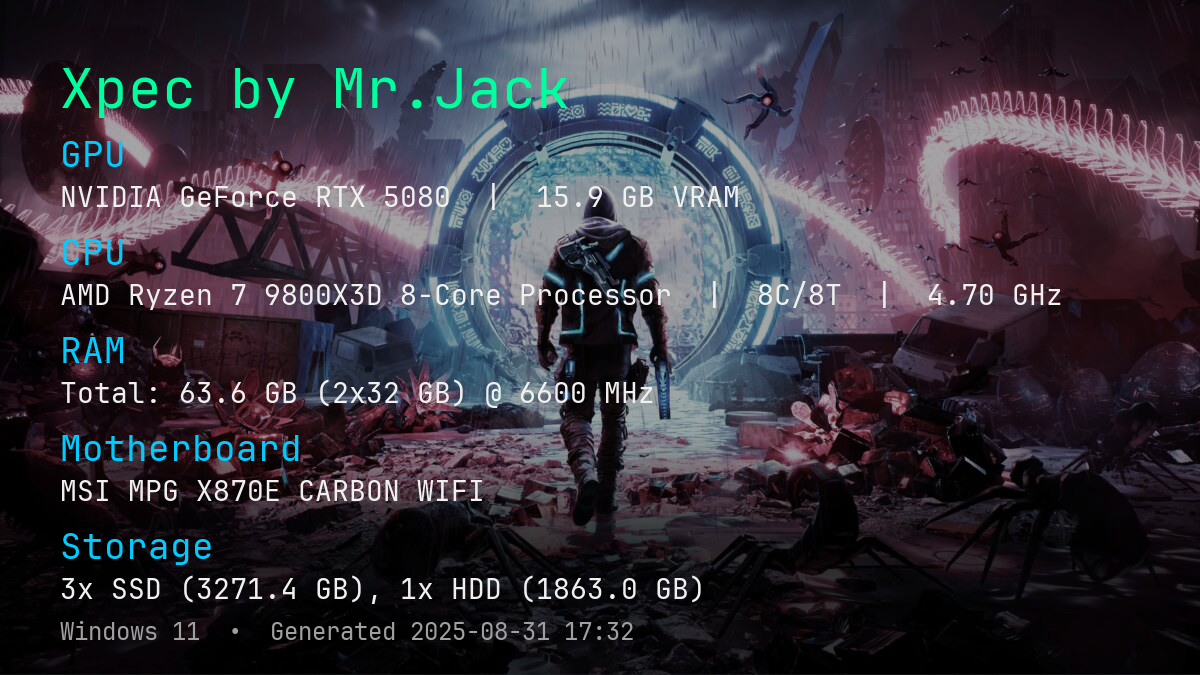
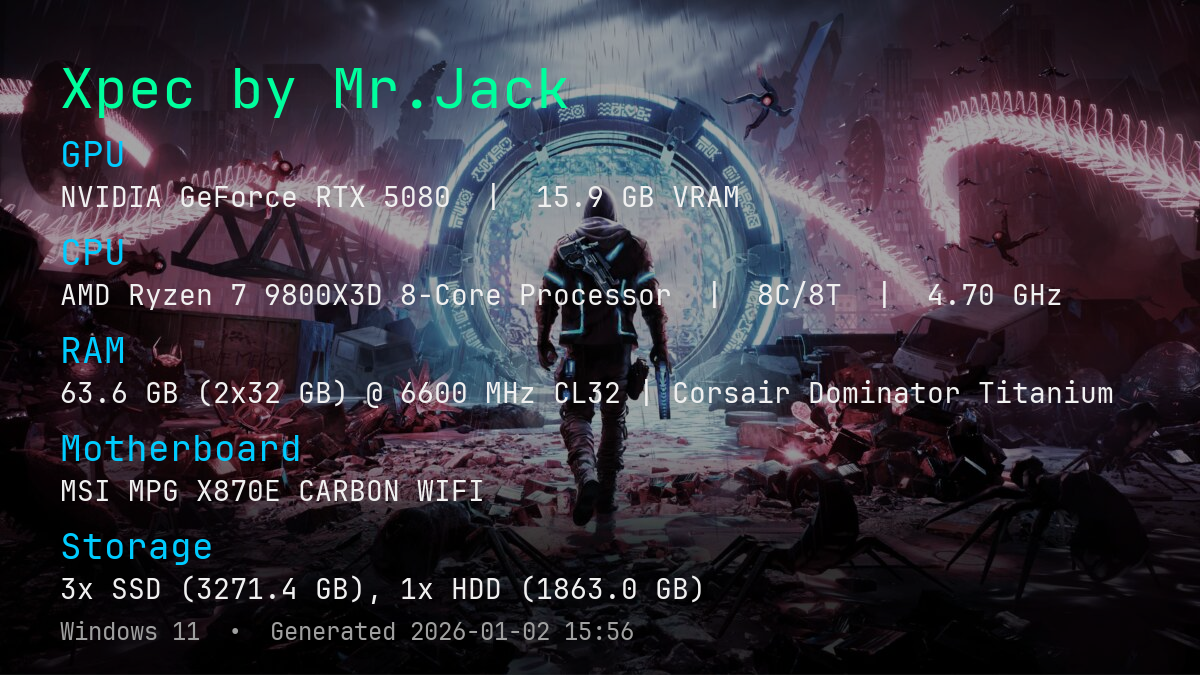
ram

Changed region(s): [[0.0308, 0.56, 0.925, 0.6222], [0.4933, 0.9022, 0.5242, 0.9333], [0.4317, 0.9022, 0.4625, 0.9333]]

diff --git a/xpec.py b/xpec.py
@@ -241,6 +241,85 @@ def get_ram_info():
         except Exception:
             pass
 
+    # Post-process for simpler vendor/model names and CAS Latency
+    for m in ram_info["Modules"]:
+        part = m.get("Part Number", "N/A").strip()
+        manu = m.get("Manufacturer", "N/A").strip()
+        
+        # Heuristics for Manufacturer & Model Family from Part Number
+        inferred_manu = None
+        inferred_model = None
+        cl_val = None
+
+        if part and part != "N/A":
+            u_part = part.upper()
+            
+            # --- Manufacturer / Model Heuristics ---
+            # CORSAIR
+            if u_part.startswith("CMP"):
+                inferred_manu = "Corsair"
+                inferred_model = "Dominator Titanium"
+            elif u_part.startswith("CMT"):
+                inferred_manu = "Corsair"
+                inferred_model = "Dominator Platinum"
+            elif u_part.startswith("CMK"):
+                inferred_manu = "Corsair"
+                inferred_model = "Vengeance LPX"
+            elif u_part.startswith("CMH"):
+                inferred_manu = "Corsair"
+                inferred_model = "Vengeance RGB"
+            elif u_part.startswith("CMW"):
+                inferred_manu = "Corsair"
+                inferred_model = "Vengeance RGB Pro"
+            elif u_part.startswith("CM"):
+                inferred_manu = "Corsair"
+                
+            # G.SKILL
+            elif u_part.startswith("F5") or u_part.startswith("F4"):
+                inferred_manu = "G.Skill"
+                if "TZ" in u_part: inferred_model = "Trident Z"
+                elif "RJ" in u_part: inferred_model = "Ripjaws"
+                
+            # KINGSTON
+            elif u_part.startswith("KF"):
+                inferred_manu = "Kingston"
+                inferred_model = "Fury"
+            elif u_part.startswith("HX"):
+                inferred_manu = "HyperX"
+                
+            # CRUCIAL
+            elif u_part.startswith("CT") or "CRUCIAL" in u_part:
+                inferred_manu = "Crucial"
+                
+            # --- CAS Latency Heuristics ---
+            # Look for C30, CL30, C32, etc. usually near end or after hyphen
+            # Regex: C followed by 2 digits, ensure it's not part of a larger number like C12345
+            # common patterns: ...C30..., ...CL30...
+            match_cl = re.search(r"(?:C|CL)(\d{2})(?:[^0-9]|$)", u_part)
+            if not match_cl:
+                # Fallback: check if the string STARTS with C/CL + digits (rare but safe)
+                match_cl = re.match(r"^(?:C|CL)(\d{2})(?:[^0-9]|$)", u_part)
+            
+            if match_cl:
+                try:
+                    val = int(match_cl.group(1))
+                    if 10 <= val <= 50: # Sane DDR4/DDR5 CL range
+                        cl_val = f"CL{val}"
+                except:
+                    pass
+
+        # Apply inferences if original manu is weak
+        if manu in {"N/A", "Unknown", "0000", "Undefined"} and inferred_manu:
+            m["Manufacturer"] = inferred_manu
+        
+        # Store extras
+        if inferred_manu:
+            m["_InferredManu"] = inferred_manu
+        if inferred_model:
+            m["_InferredModel"] = inferred_model
+        if cl_val:
+            m["_CL"] = cl_val
+
     return ram_info
 
 def get_gpu_info():
@@ -807,14 +886,44 @@ def _summarize_ram(ram_info: dict) -> str:
     if count and sizes and all(x > 0 for x in sizes):
         if len(set(sizes)) == 1:
             per_size = sizes[0]
-    parts = [f"Total: {total}"]
+    parts = [f"{total}"]
     if count:
         if per_size:
             parts.append(f"({count}x{per_size:.0f} GB)")
         else:
             parts.append(f"({count} modules)")
+    
+    # 3. Add Speed and Latency
+    # Check consistency
+    cls = [m.get("_CL") for m in modules if m.get("_CL")]
+    uniq_cl = cls[0] if cls and len(set(cls)) == 1 else None
+    
+    speed_part = ""
     if uniq_speed:
-        parts.append(f"@ {uniq_speed} MHz")
+        speed_part = f"@ {uniq_speed} MHz"
+        if uniq_cl:
+            speed_part += f" {uniq_cl}"
+    if speed_part:
+        parts.append(speed_part)
+
+    # 4. Add Manufacturer / Model if consistent
+    # We want: " | Corsair Dominator Titanium"
+    manus = [m.get("_InferredManu") or m.get("Manufacturer") for m in modules]
+    models = [m.get("_InferredModel") for m in modules]
+    
+    # Clean up N/A
+    manus = [x for x in manus if x and x not in {"N/A", "Unknown", "0000"}]
+    models = [x for x in models if x]
+    
+    final_manu = manus[0] if manus and len(set(manus)) == 1 else None
+    final_model = models[0] if models and len(set(models)) == 1 else None
+    
+    if final_manu:
+        suffix = final_manu
+        if final_model:
+            suffix += f" {final_model}"
+        parts.append(f"| {suffix}")
+
     return " ".join(parts)
 
 def _choose_primary_gpu(gpu_info: list) -> dict:
